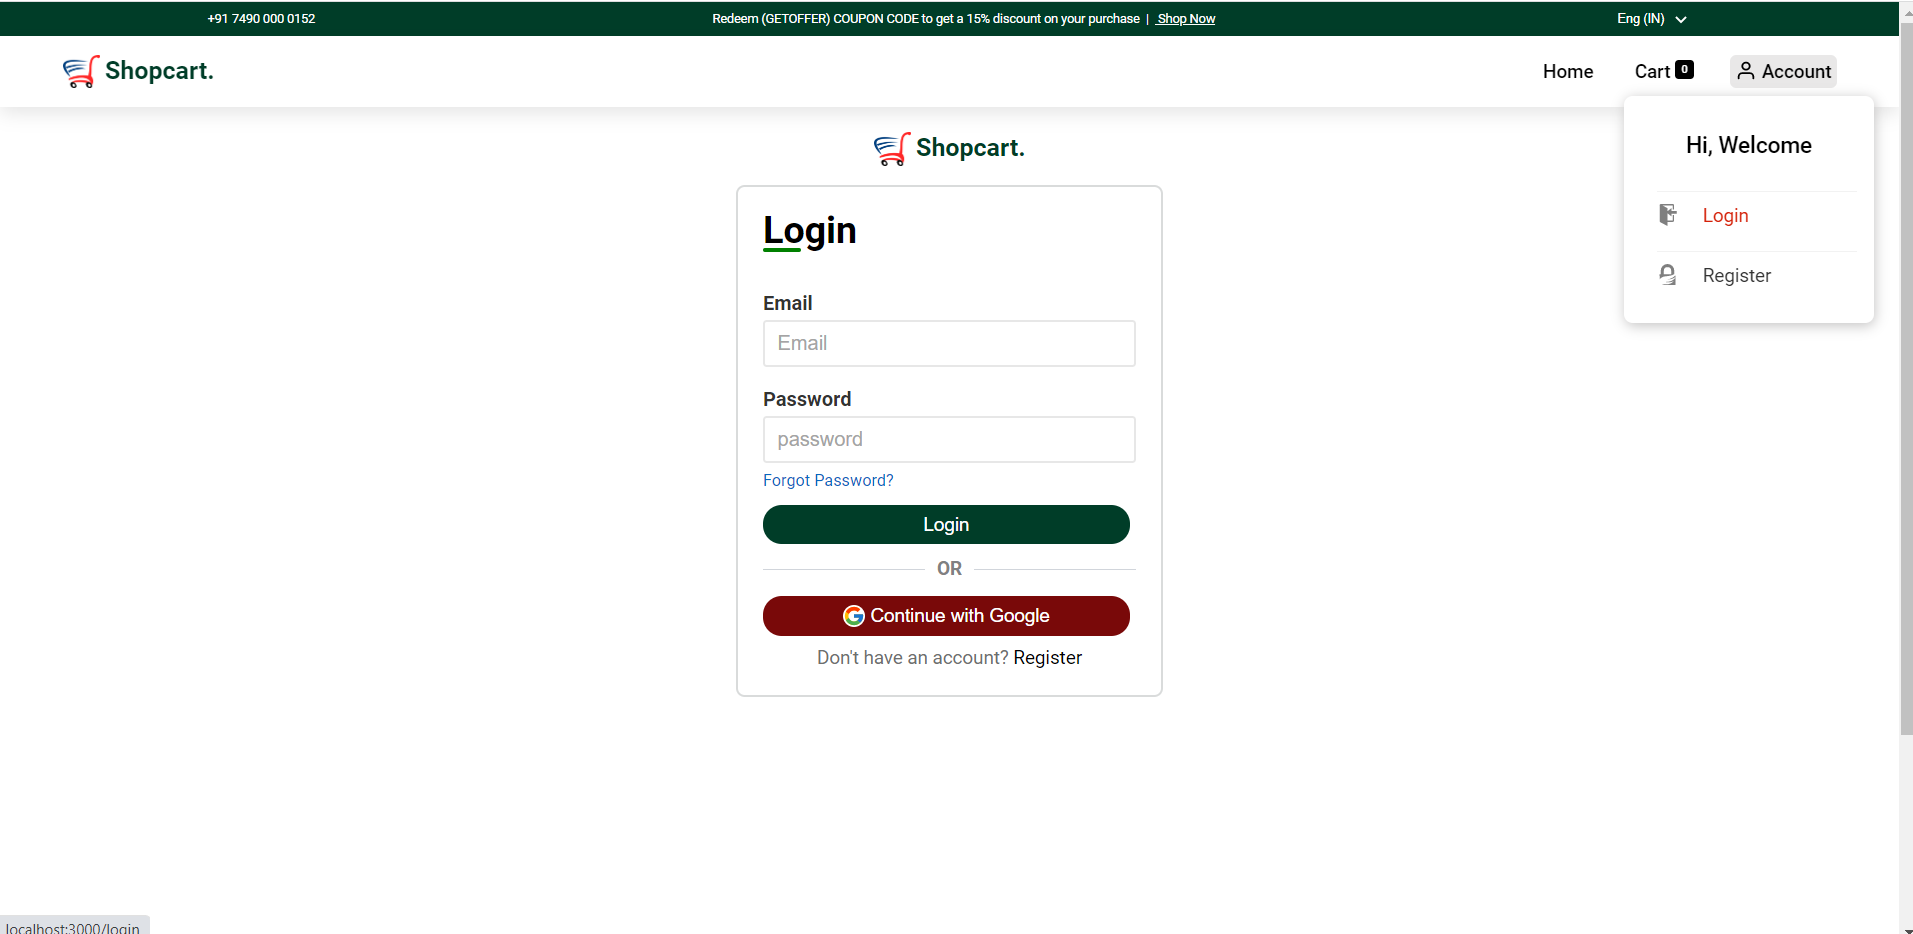
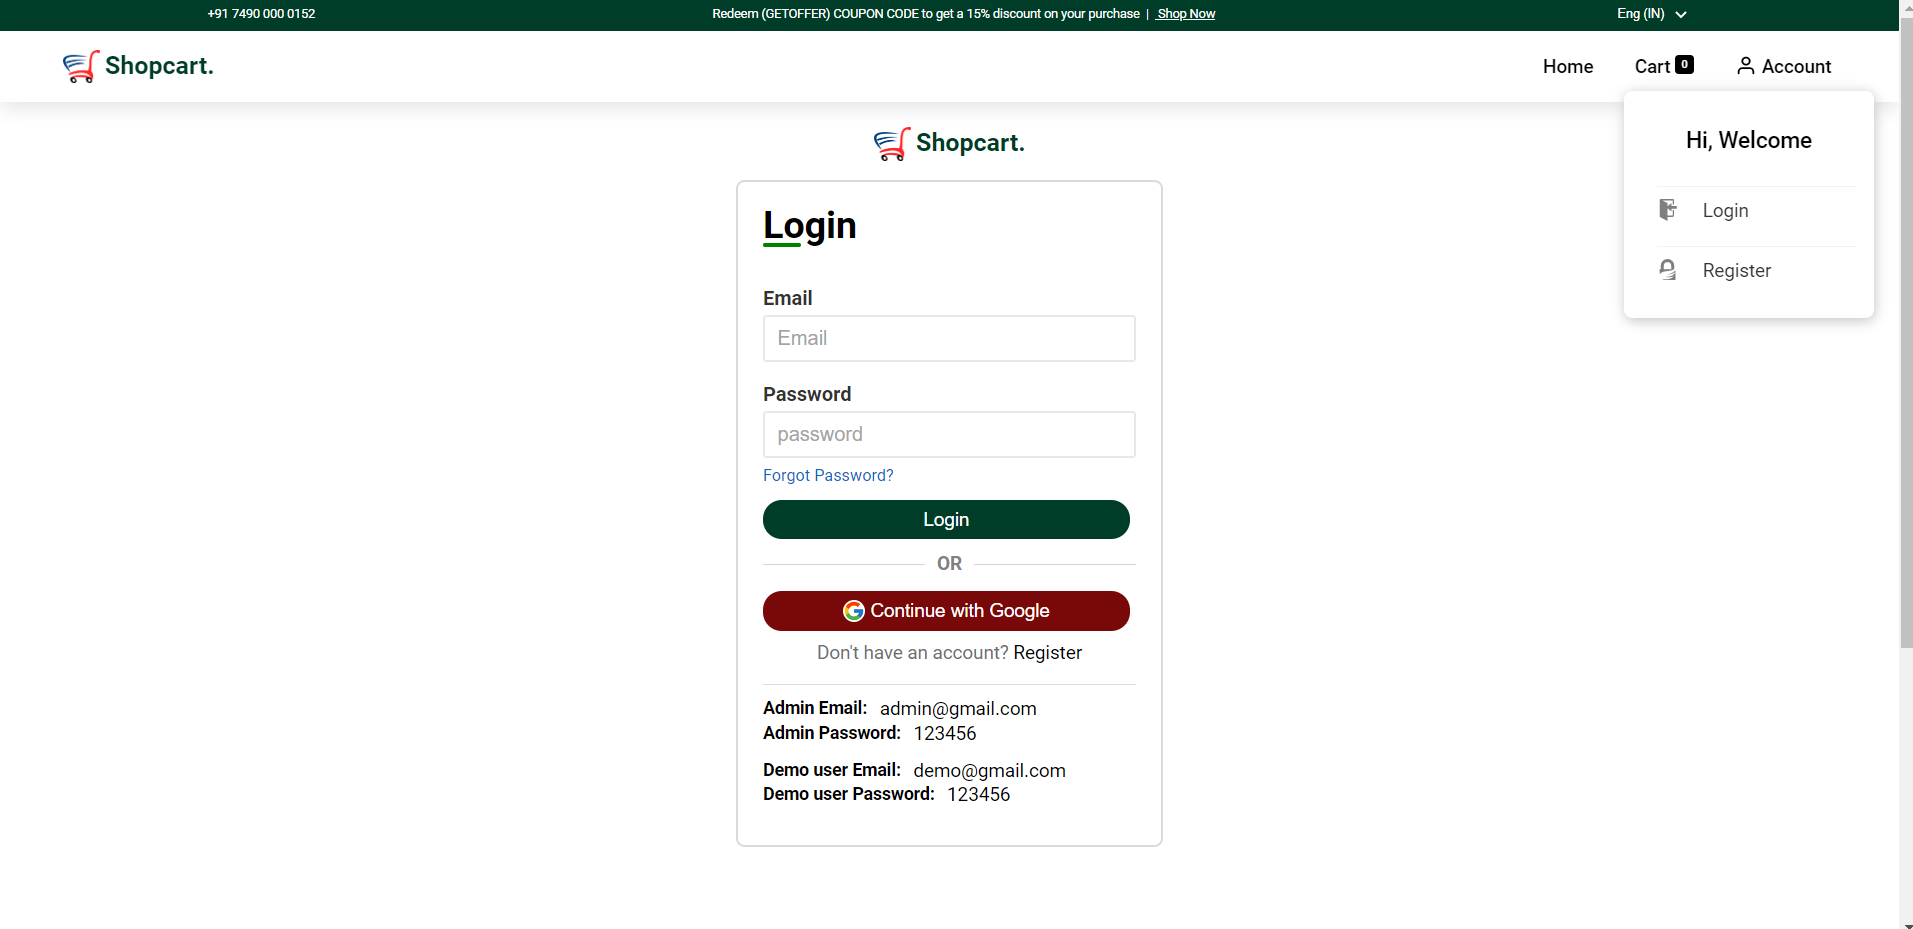
updated readme image

diff --git a/src/pages/auth/auth.scss b/src/pages/auth/auth.scss
@@ -81,3 +81,52 @@ form {
   display: flex;
   flex-direction: column;
 }
+
+.demo-users-container {
+  margin-top: 15px;
+  display: flex;
+  flex-direction: column;
+  width: 100%;
+  align-items: center;
+  padding-top: 10px;
+  border-top: 1px solid #dddbdb;
+}
+
+.demo-user,
+.demo-admin {
+  display: flex;
+  flex-direction: column;
+  width: 100%;
+  align-items: flex-start;
+  margin-bottom: 10px;
+}
+
+.demo-user > div {
+  width: 100%;
+  display: flex;
+  justify-content: flex-start;
+  gap: 10px;
+}
+
+.demo-user > div > b {
+  font-size: 14px;
+}
+
+.demo-admin > div {
+  width: 100%;
+  display: flex;
+  justify-content: flex-start;
+  gap: 10px;
+}
+
+.demo-admin > div > b {
+  font-size: 14px;
+}
+
+.demo-admin > div > p {
+  color: black;
+}
+
+.demo-user > div > p {
+  color: black;
+}

diff --git a/src/pages/auth/Login.jsx b/src/pages/auth/Login.jsx
@@ -102,6 +102,24 @@ const Login = () => {
             </p>
           </form>
         </div>
+        <div className="demo-users-container">
+          <div className="demo-admin">
+            <div>
+              <b>Admin Email:</b> <p>admin@gmail.com</p>
+            </div>
+            <div>
+              <b>Admin Password:</b> <p>123456</p>
+            </div>
+          </div>
+          <div className="demo-user">
+            <div>
+              <b>Demo user Email:</b> <p>demo@gmail.com</p>
+            </div>
+            <div>
+              <b>Demo user Password:</b> <p>123456</p>
+            </div>
+          </div>
+        </div>
       </Card>
     </section>
   );
